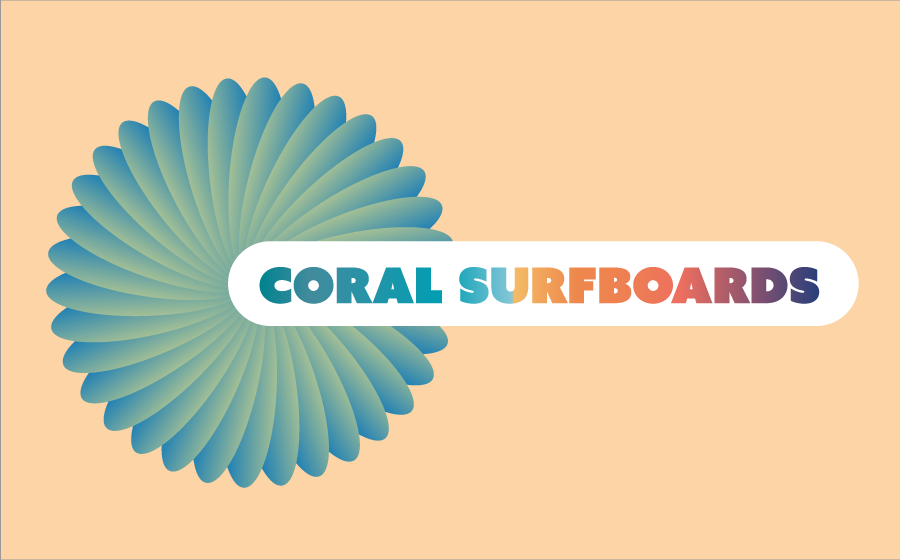
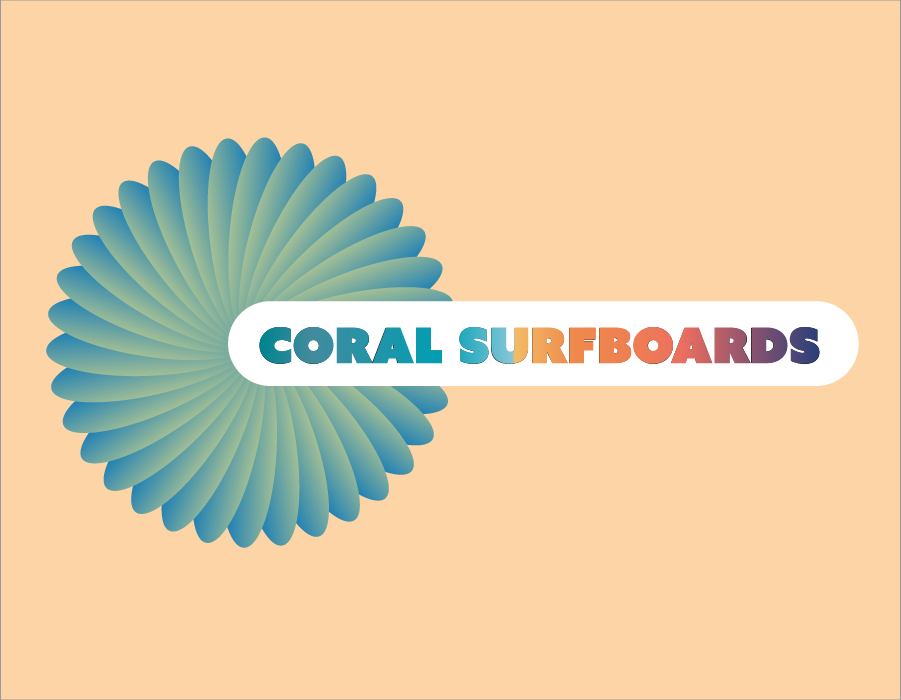
Update all design images to 900x700

diff --git a/index.html b/index.html
@@ -227,8 +227,6 @@
   <div id="design" class="main__container">
     <h2 class="main__title">Some of the things I've designed</h2>
     <div class="design__container">
-      <h3 class="main__subtitle">Project 365</h3>
-      <p>One artwork a day for a year</p>
       <div class="design__gallery"></div>
     </div>
   </div>
